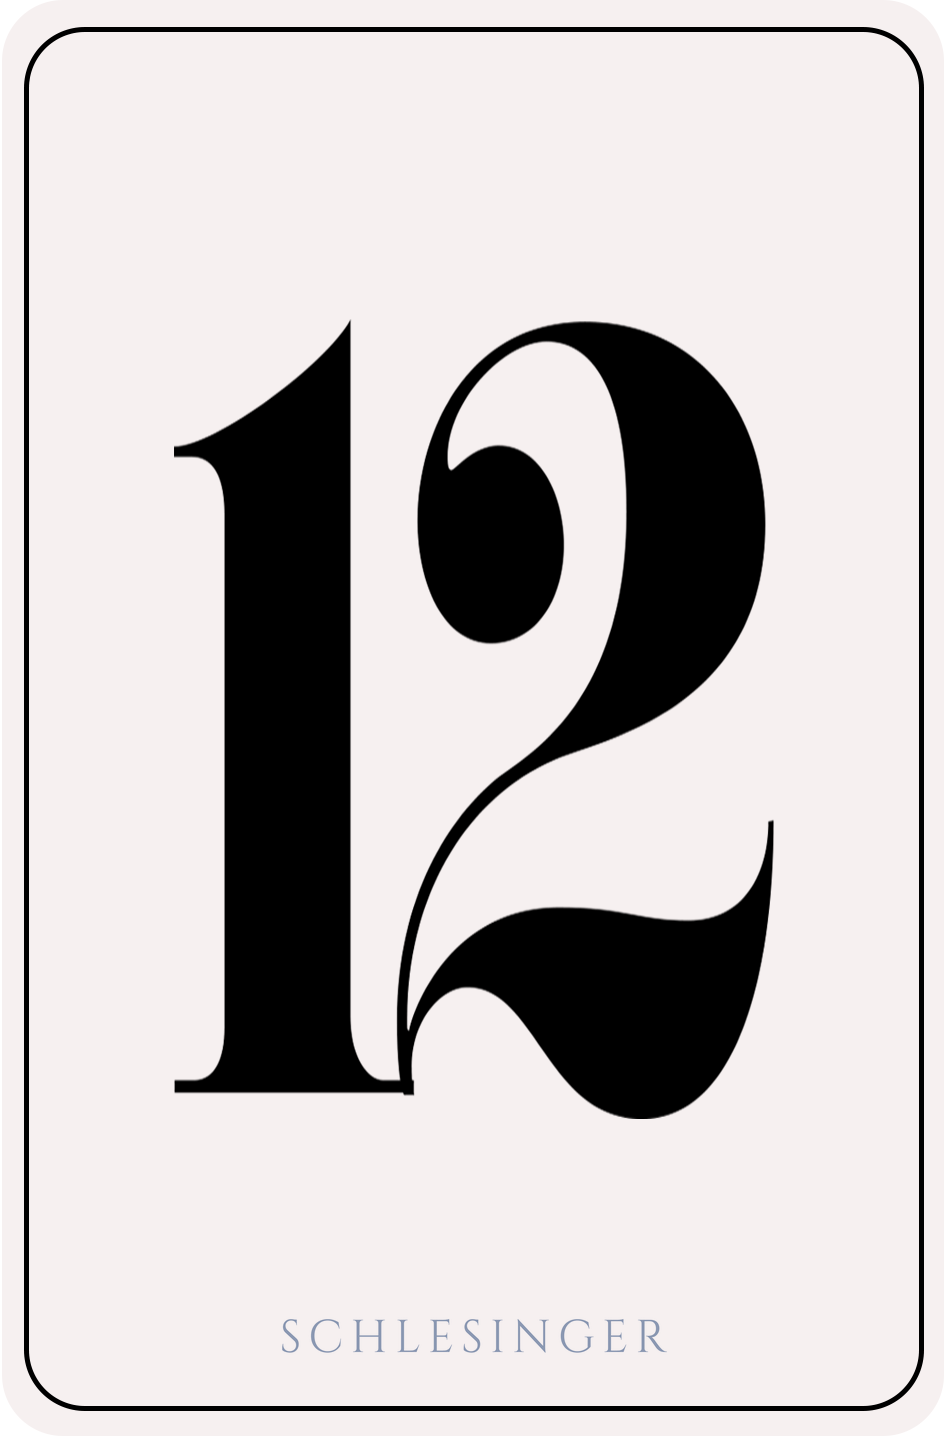
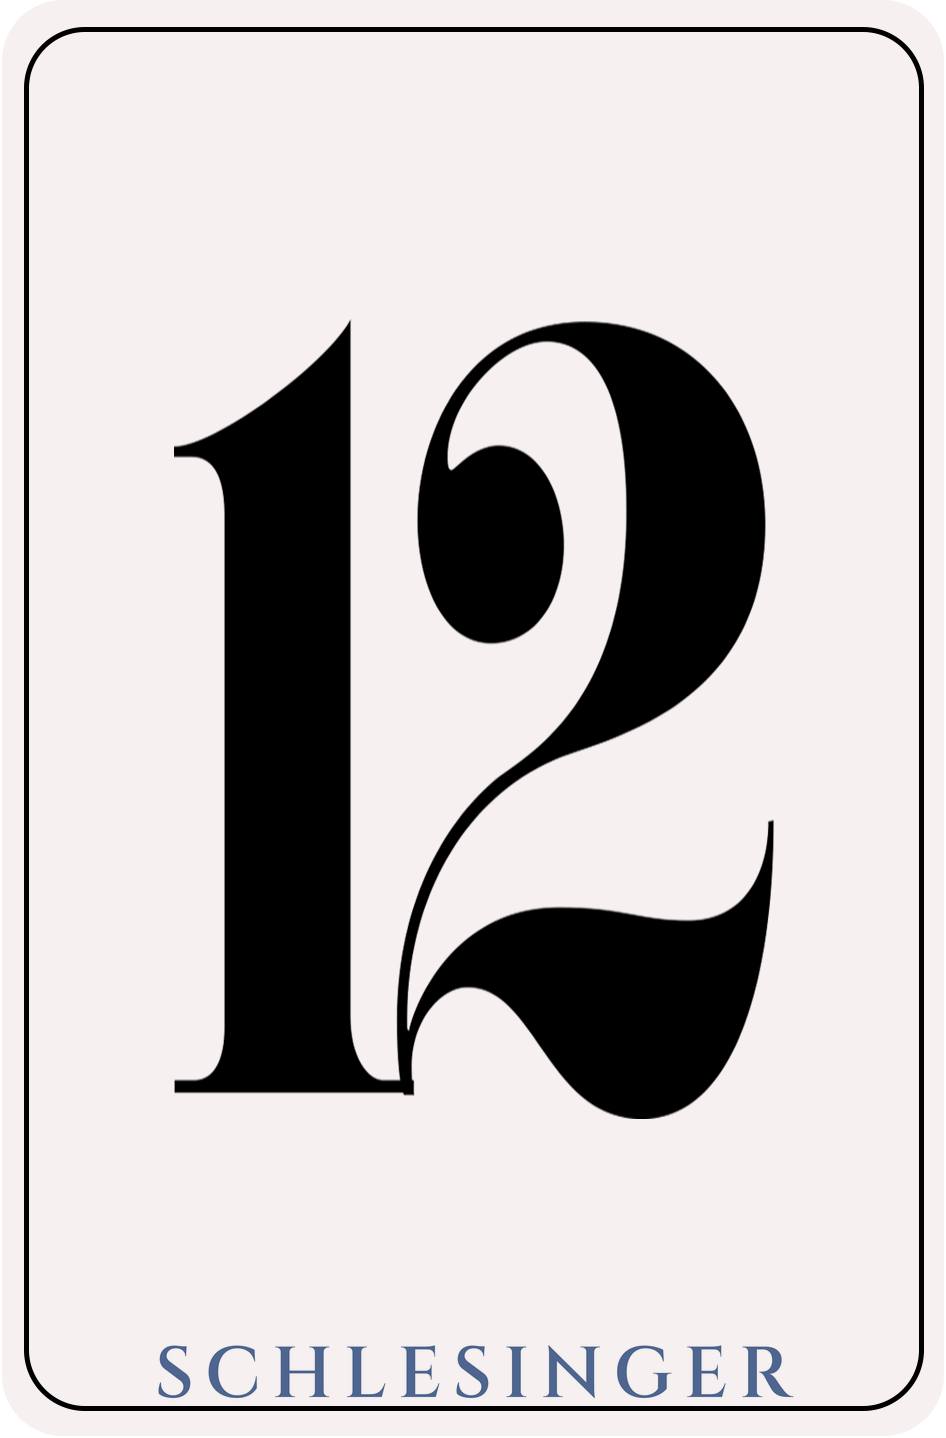
Make the maker's mark actually visible on the felt (v8.6)
The mark shipped at size 46 / alpha 140, approved on a full-resolution
proof sheet. A card renders at 68 CSS px in play -- a 14x reduction -- so
eleven letters landed on about two pixel rows and averaged out to paper
colour. Ink contrast across its band fell from 104 at full res to 38. It
did not read as faint; it did not appear at all.

Three changes, each measured after the downscale rather than before it:

  size   46 -> 72, capped by cards 2 and 11, whose scrollwork leaves a
         67px band against the other ten's 232px. 90 reads no better and
         does not fit them at all.
  alpha  140 -> 220. At 140 the ink was already grey at FULL resolution --
         6% saturation from a 60% blue -- because compositing toward the
         cream paper desaturates before any resizing does.
  wght   400 -> 600. Stroke weight, not hue, is what carries colour through
         the reduction. Saturation at 68px 9.7% -> 20.8%, contrast 89 ->
         112. A deeper ink was tried and moves it 2 points.

One foot baseline now (y1397) replaces the split 1352/1374, so the 2-and-11
collision is cleared by geometry rather than a special case. Cap tops land
7px clear of the scrollwork and 9px under the frame rule; card 1's
cartouche sits in the 236px band between the rule and the digit. Verified
by row-ink scan on every card, not by eye.

Changed region(s): [[0.2759, 0.9179, 0.8277, 0.9791], [0.1533, 0.9179, 0.2452, 0.9791]]

diff --git a/frontend/src/version.ts b/frontend/src/version.ts
@@ -9,4 +9,4 @@
 // others were bumped to v2.5. SiteHeader/SiteFooter fixed the duplication;
 // this constant is what keeps the number itself from drifting the same way
 // again now that there's only ever one place to bump it.
-export const APP_VERSION = "8.5";
+export const APP_VERSION = "8.6";

diff --git a/tools/card-mark.py b/tools/card-mark.py
@@ -31,39 +31,76 @@ SRC = os.path.join(HERE, "card-src")
 # Cinzel, SIL OFL (tools/fonts/OFL.txt). Deliberately NOT in frontend/public:
 # the mark is baked into the PNGs, so shipping the face itself would push
 # 125KB at every visitor for nothing. The variable font's default instance is
-# wght 400 = Regular, which is what we want, so no axis pinning is needed.
+# wght 400; the mark pins the axis to WEIGHT below -- see the note there.
 FACE = os.path.join(HERE, "fonts", "Cinzel[wght].ttf")
 
 NAME = "SCHLESINGER"
-ALPHA = 140              # ~55% ink
+# Sized and inked for 68px, not for 946px.
+#
+# The first version of this mark stood 34px tall at ALPHA 140. It looked right
+# on a full-resolution proof sheet and was invisible in play: a card renders at
+# 68 CSS px on the felt (measured on the live table; 36px in the lobby), which
+# is a 14x reduction, so eleven letters landed on about two pixel rows and
+# averaged out to paper colour. Ink contrast across the mark's band fell from
+# 104 at full res to 38 at 68px -- not "faint", gone.
+#
+# These numbers are chosen by measuring contrast AFTER the downscale. 72/220
+# holds 88, which is where the word becomes readable rather than a smudge.
+# If you change either, re-measure at 68px; the full-res sheet will lie to you.
+ALPHA = 220
 # A cool slate blue rather than black, so the mark reads as a second printing
-# plate instead of a faded numeral. Over the #F6F0F0 paper at ALPHA 140 this
-# lands around #8B98B2 -- present, clearly blue, nowhere near competing with
-# the numerals. The numerals themselves stay pure black; only the mark and its
-# frame take the tint.
+# plate instead of a faded numeral. The numerals stay pure black; only the mark
+# and its frame take the tint.
+#
+# Do not reach for a deeper blue to make it read bluer on the felt: at ALPHA
+# 220 this lands at #5E7398 (38% saturation) at full res but only ~10% at 68px,
+# and pushing the ink to #16305F moves that to 12%. Alpha compositing toward
+# the cream paper desaturates the ink BEFORE any downscaling does, and thin
+# strokes then average with the paper. WEIGHT is the lever that works.
 MARK_INK = (51, 80, 127)
-SIZE = 46
-TRACKING = 7
+SIZE = 72                # Cinzel caps stand 53px here
+TRACKING = 11
+# Cinzel's wght axis runs 400..900. Pinned to 600 because STROKE WEIGHT, not
+# hue, is what carries colour through a 14x downscale: thin strokes get
+# averaged with the cream paper, so the mark arrives grey no matter how blue
+# the ink is. Measured on the mark's band at 68px, holding SIZE and ALPHA:
+#
+#   wght 400  #B9BDCC   9.7% saturation   contrast  89
+#   wght 600  #8E9BB4  20.8% saturation   contrast 112
+#   wght 700  #7888A6  27.8% saturation   contrast 133
+#
+# 600 is the point where it reads as blue on the felt and still looks like a
+# printed maker's mark rather than a heading at full resolution. Deepening
+# MARK_INK instead was tried and moves saturation by ~2 points -- the paper
+# wins that argument, the stroke width does not.
+#
+# Applies to the mark alone. The 9's underdot comes from the card face's own
+# DidoneRoomNumbers.otf and is untouched by this.
+WEIGHT = 600
 SS = 4                   # supersample; PIL fills are hard-aliased
 
-# Measured off the 946x1438 art: frame rule x24..923 / y27..1410.
+# Measured off the 946x1438 art by row-ink scan (x120..826, alpha>40 and
+# L<215). The frame rule sits at y1406..1410 on every card. Free bands:
 #
-# Two foot baselines, because cards 2 and 11 are not like the others. Those
-# two carry an ornamental frame whose bottom flourish reaches y1333 (row-ink
-# scan over x60..886); the plain ten are clear from y1180 down. Cinzel caps
-# stand 34px at SIZE 46.
+#   plain ten     art ends y1172  ->  free y1173..1405  (232px)
+#   cards 2, 11   scrollwork ends y1337  ->  free y1338..1405  (67px)
 #
-# The plain cards sit at 1352, which reads as a foot line rather than
-# something crowding the rule. The ornate pair cannot: 1352 puts their cap
-# tops at 1318, straight through the scrollwork. 1374 is the highest baseline
-# that clears it (7px over the flourish, 36px under the rule), so they sit
-# slightly lower than the rest by necessity. Re-check 2 and 11 specifically
-# after changing SIZE -- a plain card will not show the collision.
-FOOT_BASELINE = 1352
-FOOT_BASELINE_ORNATE = 1374
-ORNATE = {2, 11}
-HEAD_TOP = 118           # card 1's cartouche: below the rule at y27, above
-                         # the digit at y271, weighted toward the numeral
+# ONE baseline for all twelve now, at 1397. Caps stand 53px at SIZE 72, so the
+# cap tops land at 1344: 7px clear of the ornate scrollwork and 9px under the
+# rule. That is the whole reason SIZE is 72 and not larger -- 90 would read
+# better still on the felt (cap 67) but cannot fit cards 2 and 11 at all, and a
+# mark that changes size between cards looks like a mistake rather than a
+# maker's mark. ALPHA carries what SIZE cannot.
+#
+# This replaces the earlier split baselines (1352 plain / 1374 ornate). The
+# collision that forced them is now cleared by geometry rather than by a
+# special case -- but re-measure 2 and 11 specifically if SIZE ever grows,
+# because a plain card cannot show that collision.
+FOOT_BASELINE = 1397
+ORNATE = {2, 11}         # kept for the post-render clearance check only
+HEAD_TOP = 76            # card 1's cartouche: rule ends y31, digit starts
+                         # y269, so the free head band is 236px. The taller
+                         # box (144px) leaves 45px above and 49px below.
 
 # The 9's underdot, which tells it from the 6 (the real deck's 6 is undotted,
 # so this goes on the 9 alone). The font's own period, baseline-aligned.
@@ -131,6 +168,18 @@ def draw_dot(img):
     return Image.alpha_composite(img, layer)
 
 
+def mark_font(px):
+    """Cinzel at WEIGHT. Falls back to the 400 default if the build of
+    FreeType underneath PIL has no variable-font support -- the mark then
+    renders lighter rather than the run failing outright."""
+    f = ImageFont.truetype(FACE, px)
+    try:
+        f.set_variation_by_axes([WEIGHT])
+    except Exception:
+        print(f"  warning: could not pin Cinzel to wght {WEIGHT}; using 400")
+    return f
+
+
 def _tracked(d, f, cx, baseline, tracking, ink):
     widths = [d.textlength(c, font=f) for c in NAME]
     x = cx - (sum(widths) + tracking * (len(NAME) - 1)) / 2
@@ -142,14 +191,14 @@ def _tracked(d, f, cx, baseline, tracking, ink):
 
 def foot_mark(img, card):
     """Plain imprint at the foot -- cards 2..12."""
-    baseline = FOOT_BASELINE_ORNATE if card in ORNATE else FOOT_BASELINE
+    baseline = FOOT_BASELINE
     layer = Image.new("RGBA", (img.width * SS, img.height * SS), (0, 0, 0, 0))
-    _tracked(ImageDraw.Draw(layer), ImageFont.truetype(FACE, SIZE * SS),
+    _tracked(ImageDraw.Draw(layer), mark_font(SIZE * SS),
              img.width * SS / 2, baseline * SS, TRACKING * SS, (*MARK_INK, ALPHA))
     return Image.alpha_composite(img, layer.resize(img.size, Image.LANCZOS))
 
 
-def head_cartouche(img, size=44, tracking=8, box_h=96, pad_x=44):
+def head_cartouche(img, size=66, tracking=12, box_h=144, pad_x=52):
     """Double-rule frame around the name at the head -- card 1 only.
 
     No crown. Four crowns were drawn and every one read as pasted on: a
@@ -160,7 +209,7 @@ def head_cartouche(img, size=44, tracking=8, box_h=96, pad_x=44):
     d = ImageDraw.Draw(layer)
     ink = (*MARK_INK, ALPHA)
     cx = img.width * SS / 2
-    f = ImageFont.truetype(FACE, size * SS)
+    f = mark_font(size * SS)
     top, bh = HEAD_TOP * SS, box_h * SS
     bot = top + bh
     tw = sum(d.textlength(c, font=f) for c in NAME) + tracking * SS * (len(NAME) - 1)

diff --git a/.claude/skills/card-art/SKILL.md b/.claude/skills/card-art/SKILL.md
@@ -20,20 +20,38 @@ Full geometry, the dot spec, font licensing and regeneration steps:
   thumbnail size the damage is invisible.
 
 - **After any change to the mark, look at cards 2 and 11.** They are the only
-  two with an ornamental frame and use a lower foot baseline (`y1374` vs
-  `y1352`) to clear its bottom flourish at `y1333`. A plain card cannot show
-  that collision, so checking one proves nothing. Find it with a row-ink scan,
-  not by eye on a half-scale sheet — that is how it was missed the first time.
+  two with an ornamental frame, and its bottom flourish reaches `y1337` where
+  the plain ten are clear from `y1172`. Their free band is **67px** against the
+  others' 232px, and it is what caps `SIZE`. A plain card cannot show that
+  collision, so checking one proves nothing. Find it with a row-ink scan, not
+  by eye on a half-scale sheet — that is how it was missed the first time.
 
-## Sizes: design for 92px, not 946px
+## Sizes: design for 68px, not 946px
 
-Source art is 946×1438. Cards render at **~92 CSS px** on the felt and **36px**
-in the lobby. A mark that is 34px tall in the source is **3px** on screen.
+Source art is 946×1438. Cards render at **68 CSS px** on the felt (measured on
+the live table) and **36px** in the lobby — a 14× reduction.
 
-The first mark shipped at `SIZE=46 / ALPHA=140`, was approved on a full-size
-proof sheet, and was invisible in play. **Always proof at the real rendered
-size** — 92px and 184px (2× phone screen) — not at full resolution. A variant
-sheet at true size costs one script and settles the question in one round trip.
+The first mark shipped at `SIZE=46 / ALPHA=140`, approved on a full-resolution
+proof sheet, and **did not appear at all** in play: eleven letters landed on
+about two pixel rows and averaged to paper colour. Not faint — absent.
+
+**Judge the mark by ink contrast measured AFTER the downscale**, over the
+mark's own band (`x280..666, y1330..1400`), never by eye at full res:
+
+| setting | contrast at full res | at 68px | verdict |
+|---|---|---|---|
+| 46 / 140 (shipped v7.9–8.5) | 104 | **38** | invisible |
+| 72 / 220 (current) | 161 | **88** | reads |
+| 90 / 210 | 157 | 88 | reads, but **does not fit cards 2 and 11** |
+
+Current geometry: one baseline at `y1397` for all twelve (caps stand 53px at
+`SIZE 72`, so cap tops land at `y1344` — 7px clear of the ornate scrollwork,
+9px under the frame rule). Card 1 keeps its head cartouche, `HEAD_TOP=76`,
+box 144px, in the 236px band between the rule at `y31` and the digit at `y269`.
+
+`SIZE` cannot simply be raised: 90 reads no better and breaks the ornate pair.
+`ALPHA` is the free lever, and a mark that changes size between cards looks
+like a mistake rather than a maker's mark.
 
 `ALPHA` and `MARK_INK` are constants in the generator and are **baked into the
 raster** — no environment variable can change them. Edit and re-run.
